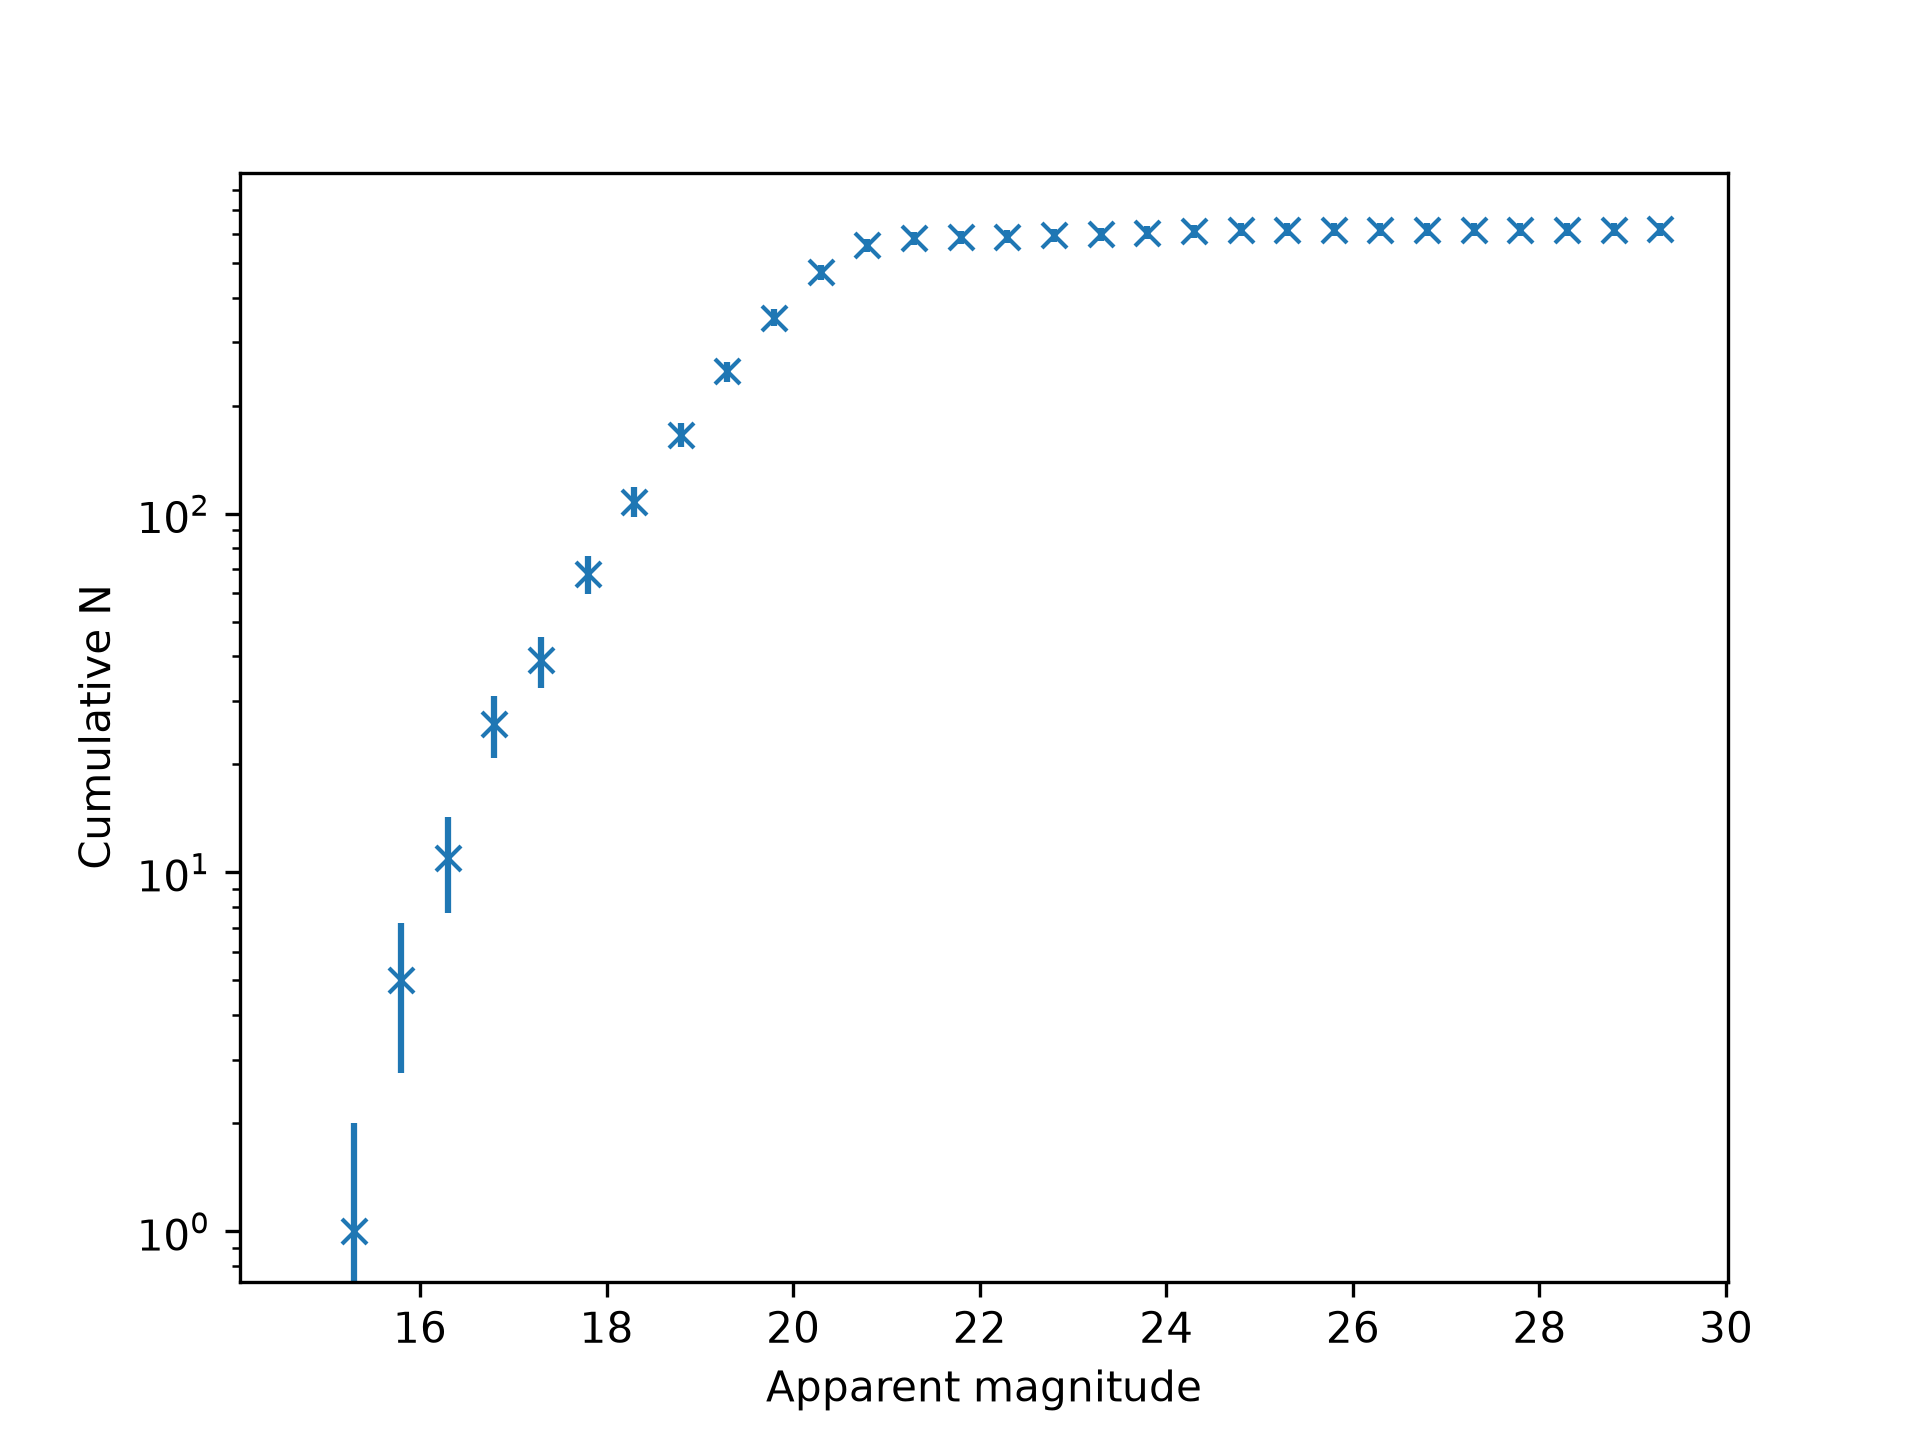
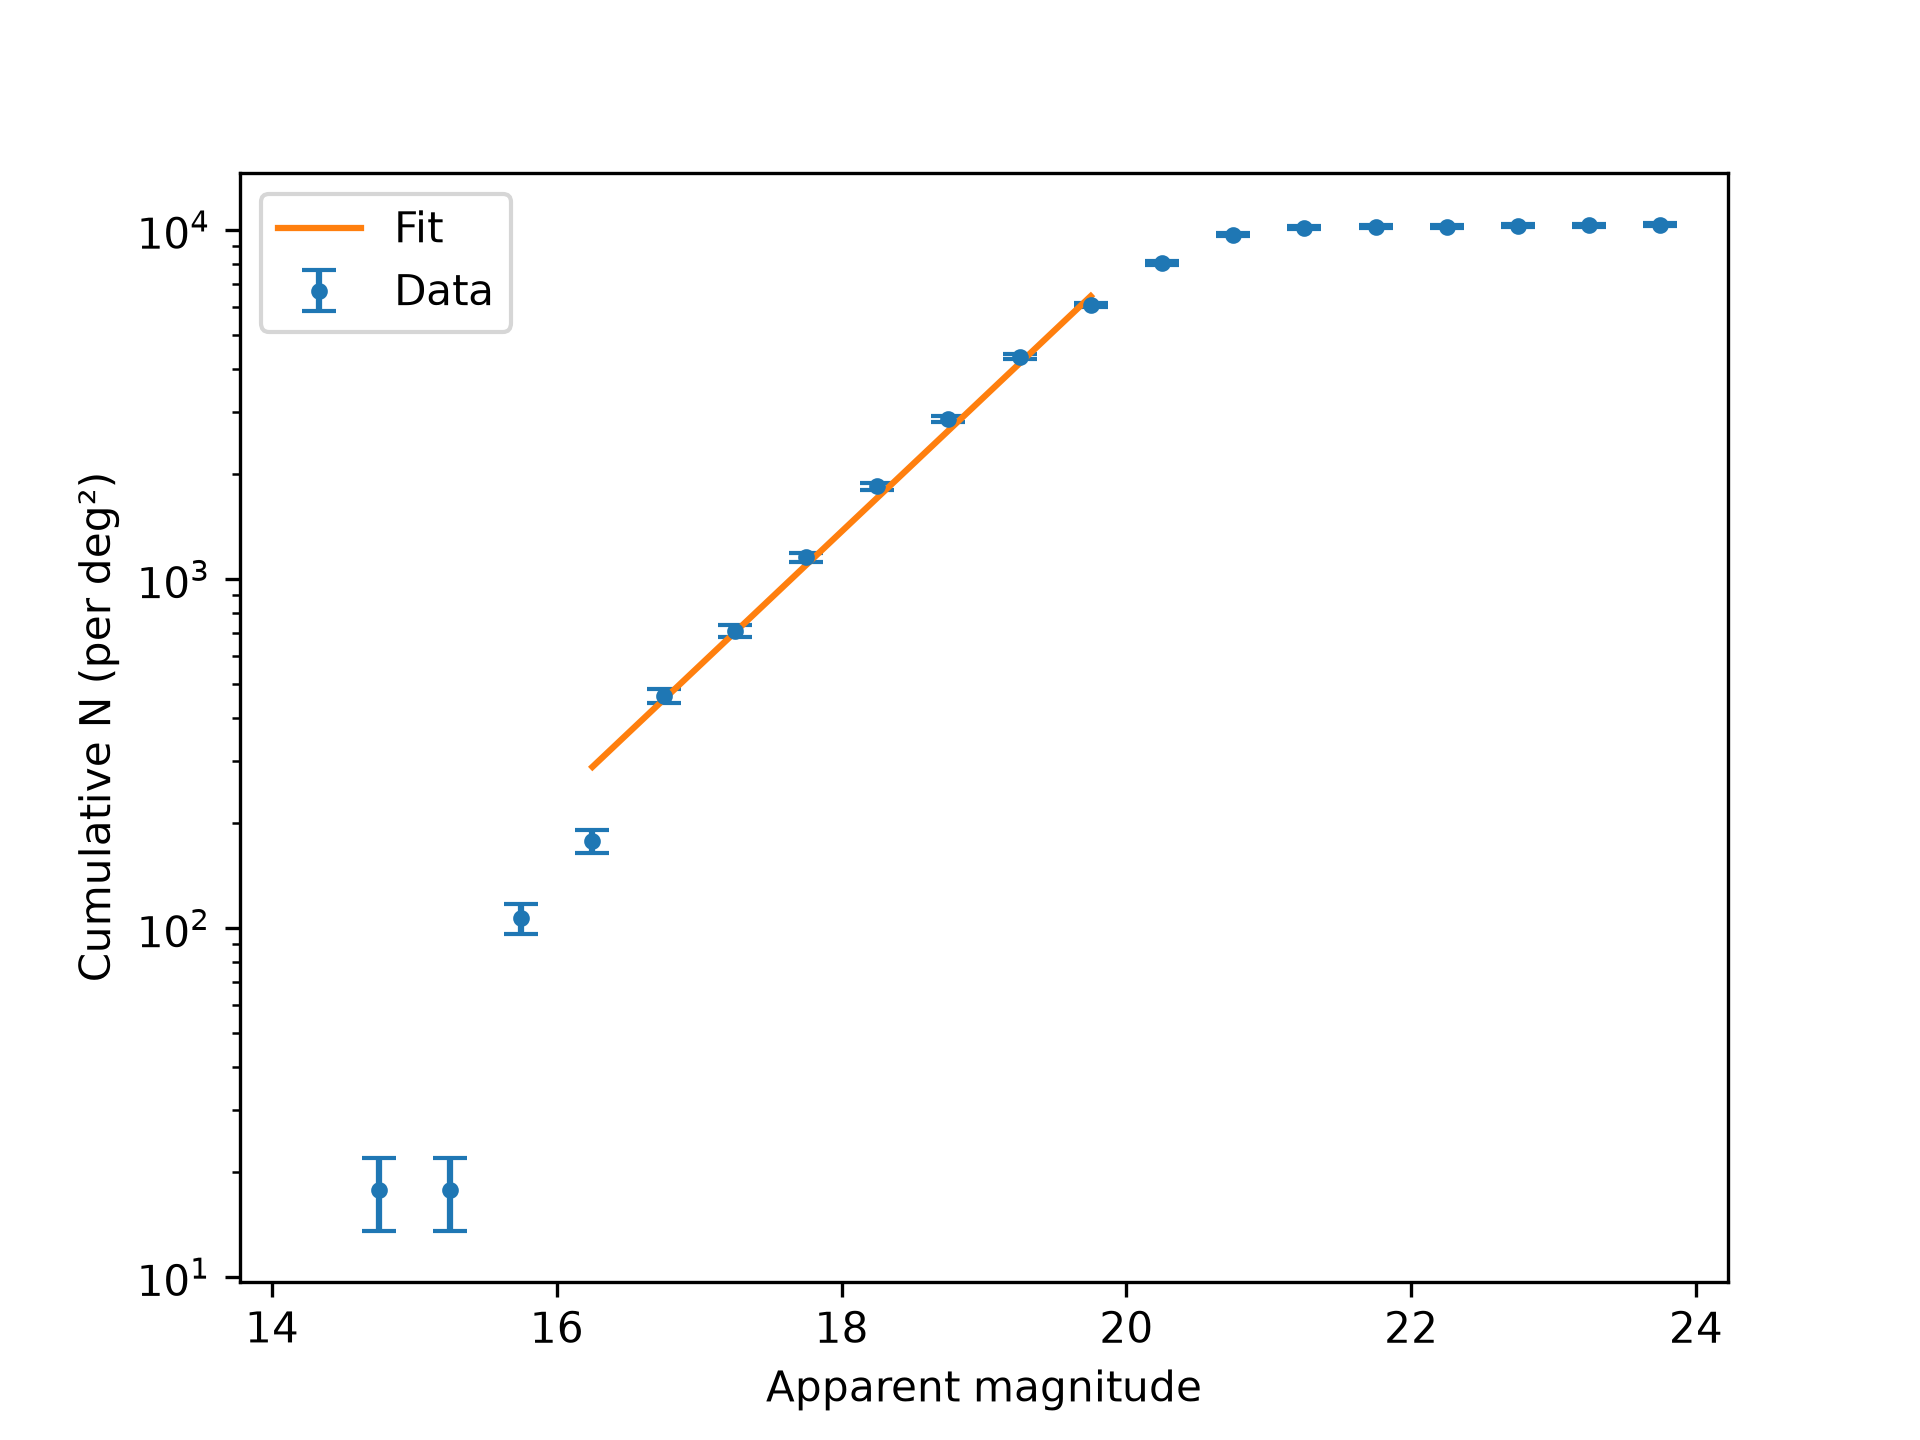
figures for presentation

diff --git a/classify.py b/classify.py
@@ -9,8 +9,8 @@ import matplotlib.pyplot as plt
 from scipy import optimize
 
 
-flux_file = "data runs/fluxes.json"
-flux_err_file = "data runs/fluxes_err.json"
+flux_file = "data runs/fluxes running.json"
+flux_err_file = "data runs/fluxes_err running.json"
 
 # mosaic = fits.open('Fits_Data/mosaic.fits')
 # header = mosaic[0].header
@@ -29,7 +29,7 @@ magerr = 2.000E-02
 gain = 3.1
 exposure_time = 720
 normalisation = 0.0564
-normalisation = 1
+# normalisation = 1
 
 
 with open(flux_file, "r") as file:
@@ -61,26 +61,35 @@ magnitudes = magzpt - 2.5 * np.log10(fluxes)
 # plt.title("Magnitude v Flux")
 # plt.show()
 
-plt.plot(magnitudes, magnitudes_err, 'x')
+bins = np.arange(14, 24.5, 0.5)
+magnitudes_err_binned = []
+
+for b in bins[:-1]:
+    err = magnitudes_err[(magnitudes > b) & (magnitudes < (b+0.5))]
+    if len(err) == 0:
+        magnitudes_err_binned.append(0)
+    else:
+        err = np.sqrt(np.sum(err**2)) / len(err)
+        magnitudes_err_binned.append(err)
+
+plt.plot(magnitudes, magnitudes_err, '.', ms=4, alpha=0.5, label='Source')
 plt.xlabel('Apparent magnitude')
-plt.ylabel('Uncertainty')
-plt.ylim((-0.1, 1.5))
+plt.ylabel('Magnitude uncertainty')
+plt.legend()
 # plt.savefig('figures/magnitude_uncertainty', dpi=300)
 plt.show()
 
-bins = np.arange(np.min(magnitudes)-0.5, np.max(magnitudes)+0.5, 0.5)
 counts, bins = np.histogram(magnitudes, bins=bins)
 counts_err = np.sqrt(counts) / normalisation
 counts = counts / normalisation
 bins = (bins[1:] + bins[:-1]) / 2
-counts_err = np.sqrt(counts)
 
-plt.errorbar(bins, counts, yerr=counts_err, fmt='x')
+plt.errorbar(bins, counts, xerr=magnitudes_err_binned, yerr=counts_err, fmt='.', capsize=4, label='Data')
 plt.semilogy()
 plt.xlabel("Apparent magnitude")
-plt.ylabel("N")
-# plt.ylabel("N (per deg\u00b2 per 0.5 mag)")
-# plt.savefig('figures/count_plot', dpi=300)
+plt.ylabel("N (per deg\u00b2 per 0.5 mag)")
+plt.legend()
+# plt.savefig('figures/normalised_count_plot', dpi=300)
 plt.show()
 
 counts = counts.cumsum()
@@ -90,16 +99,20 @@ def log_line(x, m, c):
     return 10**(x*m + c)
 
 popt, pcov = optimize.curve_fit(
-    log_line, xdata=bins[2:12], ydata=counts[2:12], sigma=counts_err[2:12]
+    log_line, xdata=bins[4:12], ydata=counts[4:12], sigma=counts_err[4:12]
 )
 
-plt.errorbar(bins, counts, yerr=counts_err, fmt='x')
-plt.plot(bins[2:12], log_line(bins[2:12], *popt))
+plt.errorbar(bins, counts, yerr=counts_err, fmt='.', capsize=4, label='Data')
+plt.plot(bins[4:12], log_line(bins[4:12], *popt), label='Fit')
 plt.semilogy()
 plt.xlabel("Apparent magnitude")
-plt.ylabel("Cumulative N")
-# plt.ylabel("Cumulative N (per deg\u00b2)")
-# plt.savefig('figures/cumulative_count_plot', dpi=300)
+plt.ylabel("Cumulative N (per deg\u00b2)")
+plt.legend()
+# plt.savefig('figures/normalised_cumulative_count_plot', dpi=300)
 plt.show()
 
-print(f'slope = {popt[0]:.4f} +/- {np.sqrt(pcov[0][0]):.4f}')
+uncertainty_01 = magnitudes_err[(magnitudes > 16) & (magnitudes < 20)]
+uncertainty_01 = (uncertainty_01 < 0.1).sum() / len(uncertainty_01)
+
+print('STATISTCIS')
+print(f'Slope = {popt[0]:.4f} +/- {np.sqrt(pcov[0][0]):.4f}')
